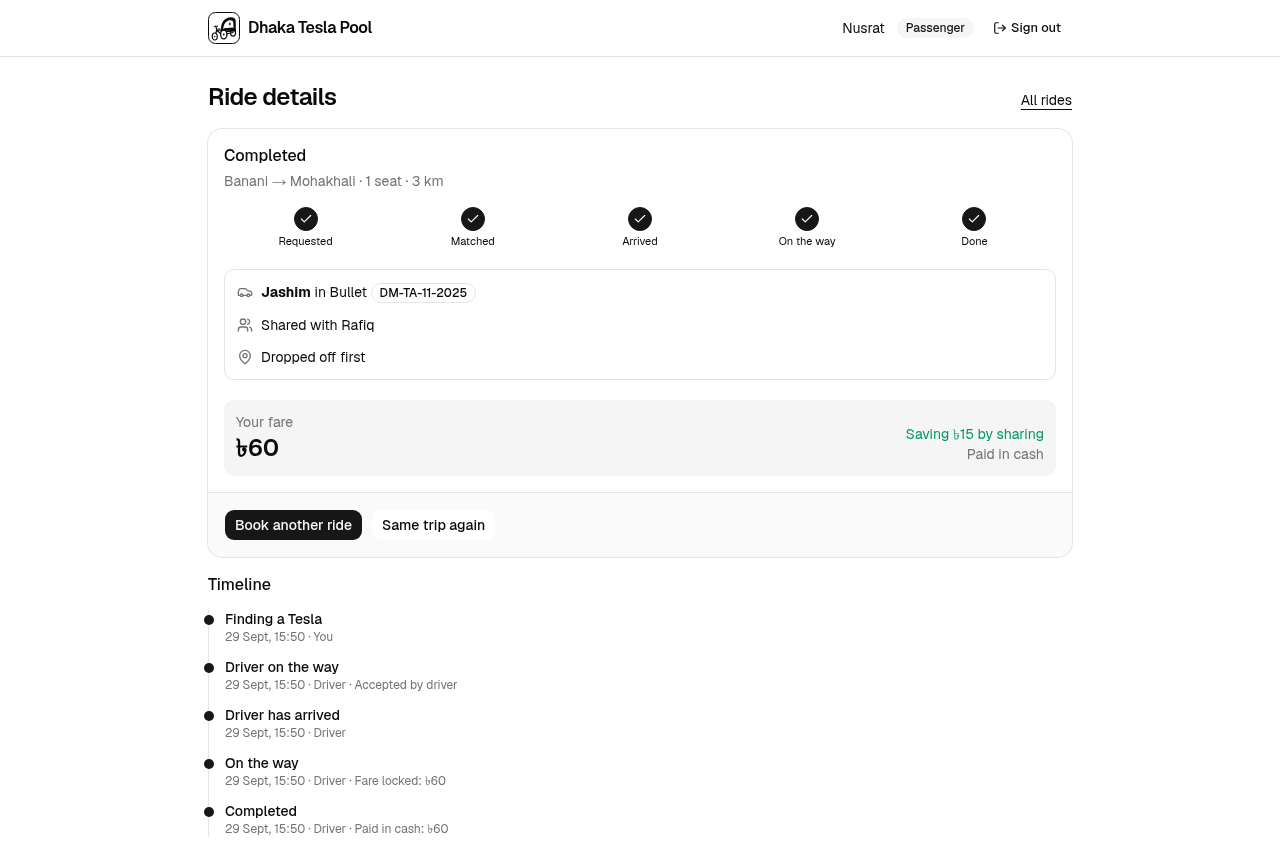
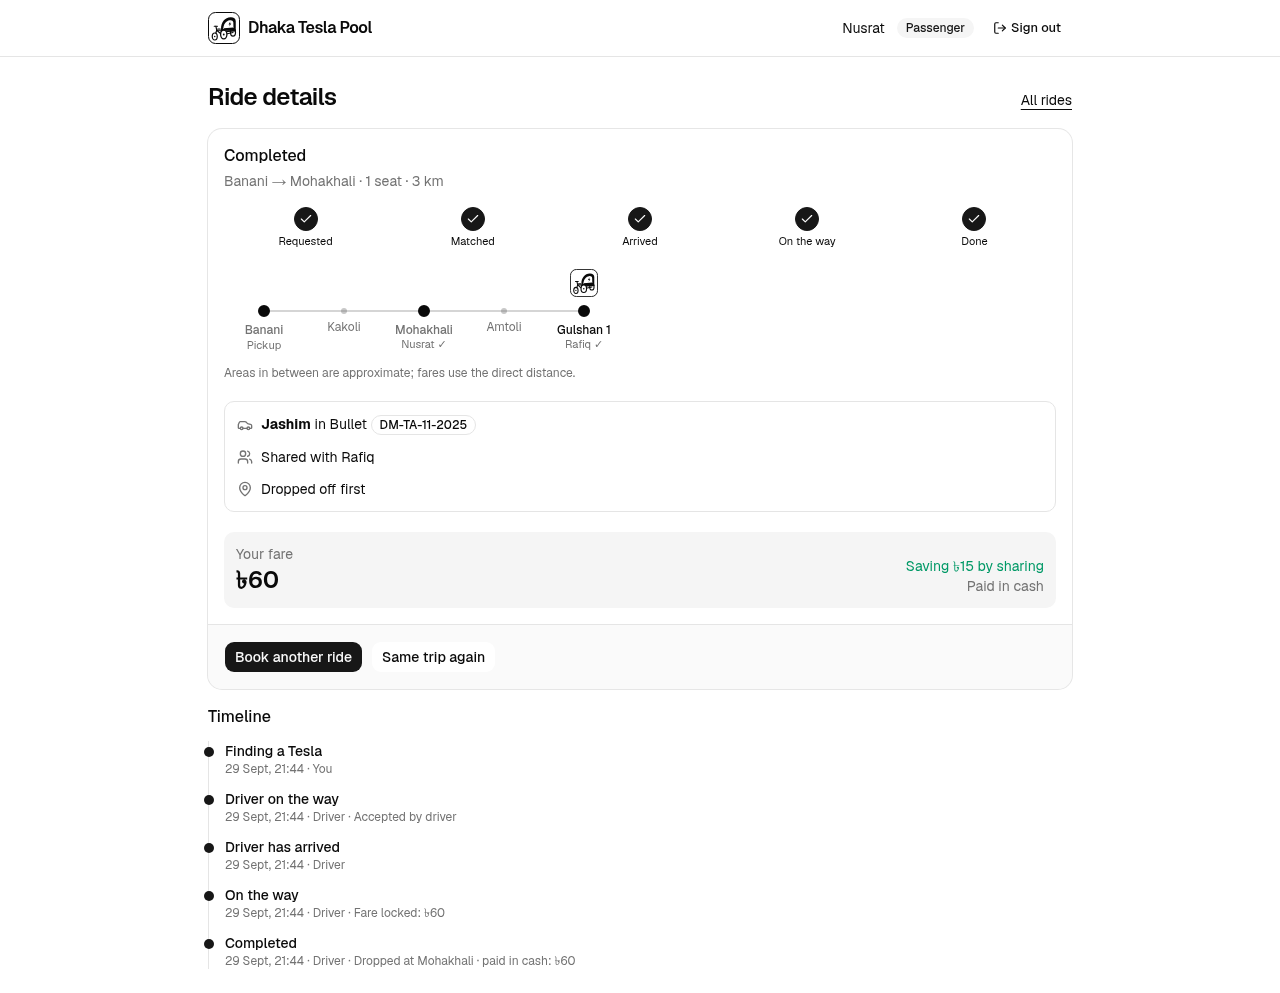
docs: document drop-offs and the trip line, refresh screenshots

diff --git a/README.md b/README.md
@@ -64,13 +64,15 @@ Every assumption made along the way is written down in [docs/assumptions.md](doc
 - Pick pickup and destination zones and seats (1–3), and see three prices before booking: alone, shared by two (20% off) and full Tesla (30% off).
 - New requests **automatically join** a compatible open pool (same pickup, seats free, detour ≤ 2 km).
 - Live ride page (polled every 3 s): progress steps, driver and plate, co-riders by first name, drop-off order, and the projected fare, which is locked when the trip starts.
+- **Seat boxes:** one box per seat in the Tesla, the same for everyone in the pool: filled when booked, empty when free, freed again when someone gets off.
+- **Trip line:** pickup, the areas passed on the way (e.g. Banani → Kakoli → Mohakhali) and every drop-off, with the Tesla drawn where it is now.
 - Cancel before the trip starts. History, ride details with a timeline, and "Same trip again".
 
 **Driver**
 - Go online/offline; see waiting requests only while online.
 - Accept a request (starts a pool) or add a fitting request to the open pool.
-- Arrive → start (fares lock) → complete (cash collected), or cancel before the start.
-- Current trip view with seats taken, drop-off order, each rider's fare and the total to collect. Trip history.
+- Arrive → start (fares lock) → **drop passengers off one by one** in drop-off order (each pays cash and their ride completes; the last drop-off ends the trip), or cancel before the start.
+- Current trip view with seat boxes, the trip line, each rider's fare, and cash collected so far. Trip history.
 
 **Platform**
 - Seat capacity enforced by a row lock **and** a database `CHECK` constraint.
@@ -85,11 +87,11 @@ Every assumption made along the way is written down in [docs/assumptions.md](doc
 |---|---|
 | ![Home page](docs/images/home.png) | ![Nusrat requesting Banani to Mohakhali](docs/images/passenger-request.png) |
 
-| Nusrat, pooled with Rafiq | Jashim's trip in progress (fares locked) |
+| Nusrat, pooled with Rafiq: seat boxes and trip line | Jashim has dropped Nusrat off; Rafiq is next |
 |---|---|
-| ![Nusrat's ride matched with Rafiq](docs/images/passenger-pooled.png) | ![Jashim's current trip: Nusrat ৳60, Rafiq ৳72, total ৳132](docs/images/driver-trip.png) |
+| ![Nusrat's ride matched with Rafiq](docs/images/passenger-pooled.png) | ![Jashim's trip after dropping Nusrat: ৳60 of ৳132 collected](docs/images/driver-trip.png) |
 
-| Driver sees a waiting request | Completed ride with timeline |
+| Driver sees a waiting request | Nusrat's completed ride with timeline |
 |---|---|
 | ![Jashim's waiting requests](docs/images/driver-requests.png) | ![Nusrat's completed ride](docs/images/passenger-completed.png) |
 
@@ -117,7 +119,7 @@ The story cast is seeded in every environment. The password is `tesla1234` for a
 > 2. **Nusrat** → Banani → Mohakhali, 1 seat → Request ride.
 > 3. **Jashim** → Accept Nusrat.
 > 4. **Rafiq** → Banani → Gulshan 1 → he joins Bullet automatically. Both now see the 20% shared fare (৳60 and ৳72).
-> 5. **Jashim** → I've arrived → Start trip (fares lock) → Complete trip (৳132 cash).
+> 5. **Jashim** → I've arrived → Start trip (fares lock) → **Drop off** Nusrat at Mohakhali (৳60) → **Drop off** Rafiq at Gulshan 1 (৳72). The trip ends with ৳132 cash.
 >
 > Add **Shirin** before the start to fill Bullet: everyone's discount rises to 30%.
 
@@ -185,7 +187,7 @@ erDiagram
 | `zones`, `zone_distances` | 14 Dhaka zones and a symmetric km table (no map API) |
 | `ride_requests` | A passenger's trip request, its status and the solo fare estimate |
 | `pools` | One shared trip: driver, vehicle, pickup zone, `occupied_seats ≤ capacity` |
-| `pool_members` | Who is in a pool, drop-off order, and the full locked fare breakdown |
+| `pool_members` | Who is in a pool, drop-off order, when they were dropped off, and the full locked fare breakdown |
 | `ride_status_history` | Every state change, who made it, and why |
 
 Money is stored as **integer paisa**, and percentages as basis points. Full column list, constraints, indexes and a worked example: [docs/erd.md](docs/erd.md).
@@ -348,14 +350,14 @@ cd ../frontend
 npm run lint && npm run typecheck && npm run build
 ```
 
-**62 unit and 55 e2e tests.** The e2e tests run through the real HTTP stack and database, and clean up after themselves. The behaviours the brief asks for:
+**67 unit and 58 e2e tests.** The e2e tests run through the real HTTP stack and database, and clean up after themselves. The behaviours the brief asks for:
 
 | Required behaviour | Where it's tested |
 |---|---|
 | Bullet's capacity can never be exceeded | `pooling.e2e-spec.ts`: never more than 3; the DB `CHECK` rejects a direct overbooking |
 | Two concurrent requests can't corrupt capacity | `pooling.e2e-spec.ts`: Nusrat vs Shirin for the last seat; 8 passengers × 1 seat × 5 rounds; driver-add vs passenger-join. `driver.e2e-spec.ts`: two drivers accepting one ride |
 | Nusrat's and Rafiq's pooled fares | `fare.calculator.spec.ts` (F1–F12), `fares.e2e-spec.ts`, `driver.e2e-spec.ts`: locks ৳60 and ৳72 at the start |
-| Invalid state transitions are rejected | `ride-state.spec.ts` (allowed and forbidden moves, final states), plus cancel after start and arrive/start out of order in the e2e tests |
+| Invalid state transitions are rejected | `ride-state.spec.ts` (allowed and forbidden moves, final states), plus cancel after start, arrive/start out of order, and drop-offs before the start or out of order in the e2e tests |
 | Users can't modify another user's ride | `rides.e2e-spec.ts`: another passenger gets 403 on view and cancel, and the ride is unchanged; role checks on passenger and driver routes |
 | Cancellation rules hold | `rides.e2e-spec.ts`: cancel frees the seat, empties the pool, refuses after the start; `driver.e2e-spec.ts`: driver cancel sends riders back to waiting |
 
@@ -378,7 +380,8 @@ REST, JSON, all under `/api`. Auth is the `token` httpOnly cookie. Interactive d
 | `GET` | `/driver/requests` | Driver | Waiting requests this driver can take |
 | `POST` | `/driver/requests/:id/accept` | Driver | Start a pool or add to the open one |
 | `GET` | `/driver/pool` · `/driver/pools` | Driver | Current trip, trip history |
-| `POST` | `/driver/pool/arrive` · `start` · `complete` · `cancel` | Driver | Move the trip along |
+| `POST` | `/driver/pool/arrive` · `start` · `cancel` | Driver | Move the trip along |
+| `POST` | `/driver/pool/drop-off/:rideId` · `complete` | Driver | Drop one passenger off (the last one ends the trip), or everyone left |
 | `GET` | `/health` | Public | API and database status |
 
 Every error looks the same: `{ "statusCode", "error", "message", "requestId" }`.
@@ -404,6 +407,7 @@ Every error looks the same: `{ "statusCode", "error", "message", "requestId" }`.
 - **No refresh tokens:** sessions last one day.
 - **Cash only:** no payment integration, ratings or driver location.
 - **Matching is zone-level and greedy:** one pickup zone per pool, drop-off order by distance.
+- **The trip line is an illustration:** the areas in between come from a small hand-drawn road map, and the Tesla moves stop by stop, not by GPS.
 
 ## Next improvements
 

diff --git a/docs/api.md b/docs/api.md
@@ -62,7 +62,8 @@
 | `GET` | `/api/driver/pool` | Driver | Current pool, with passengers and seats |
 | `POST` | `/api/driver/pool/arrive` | Driver | Mark arrived at pickup |
 | `POST` | `/api/driver/pool/start` | Driver | Start the trip, lock fares |
-| `POST` | `/api/driver/pool/complete` | Driver | Complete the trip |
+| `POST` | `/api/driver/pool/drop-off/:rideId` | Driver | Drop off one passenger; the last one completes the trip |
+| `POST` | `/api/driver/pool/complete` | Driver | Drop off everyone left and complete the trip |
 | `POST` | `/api/driver/pool/cancel` | Driver | Cancel the pool before start |
 | `GET` | `/api/driver/pools` | Driver | Trip history |
 | `GET` | `/api/health` | Public | Service and database health |
@@ -210,8 +211,24 @@ Returned by every ride endpoint. A passenger sees their own fare only; co-riders
     "driver": { "name": "Jashim" },
     "vehicle": { "name": "Bullet", "plateNumber": "DM-TA-11-2025" },
     "dropOffOrder": 1,
-    "coRiders": [ { "name": "Rafiq", "seats": 1 } ],
-    "seatsLeft": 1
+    "coRiders": [ { "name": "Rafiq", "seats": 1, "dropped": false } ],
+    "capacity": 3,
+    "seatsLeft": 1,
+    "seatMap": [
+      { "name": "Nusrat", "seats": 1, "you": true, "dropped": false },
+      { "name": "Rafiq", "seats": 1, "you": false, "dropped": false }
+    ]
+  },
+  "route": {
+    "points": [
+      { "name": "Banani", "kind": "PICKUP", "riders": [] },
+      { "name": "Kakoli", "kind": "VIA", "riders": [] },
+      { "name": "Mohakhali", "kind": "DROP_OFF", "riders": ["Nusrat"] },
+      { "name": "Amtoli", "kind": "VIA", "riders": [] },
+      { "name": "Gulshan 1", "kind": "DROP_OFF", "riders": ["Rafiq"] }
+    ],
+    "position": 0,
+    "moving": false
   },
   "createdAt": "2026-09-28T02:41:00Z"
 }
@@ -222,6 +239,8 @@ Returned by every ride endpoint. A passenger sees their own fare only; co-riders
 | `fare.currentPaisa` | What the passenger would pay if the trip started now; changes as the pool changes. |
 | `fare.finalPaisa` | Set when the trip starts; never changes afterwards. |
 | `pool` | `null` while `REQUESTED` or after cancellation. |
+| `pool.seatMap` | Everyone's seats in drop-off order, for the seat boxes; `dropped` seats are free again. |
+| `route` | The trip line: the pool's whole route, or just this ride's while it waits. `VIA` points are areas passed on the way (display only, [assumptions §3.3](assumptions.md#33-trip-line-display-only)). `position` is the point the Tesla is at, or has just left when `moving`. |
 
 ### `POST /api/rides` — *Passenger*
 
@@ -345,7 +364,8 @@ Returned by all `/api/driver/pool*` endpoints. The driver sees every member's fa
       "seats": 1,
       "dropOffOrder": 1,
       "farePaisa": 6000,
-      "fareLocked": false
+      "fareLocked": false,
+      "droppedAt": null
     },
     {
       "rideId": "r-2…",
@@ -355,10 +375,12 @@ Returned by all `/api/driver/pool*` endpoints. The driver sees every member's fa
       "seats": 1,
       "dropOffOrder": 2,
       "farePaisa": 7200,
-      "fareLocked": false
+      "fareLocked": false,
+      "droppedAt": null
     }
   ],
   "totalFarePaisa": 13200,
+  "route": { "points": [ "…same shape as in the ride object…" ], "position": 0, "moving": false },
   "createdAt": "2026-09-28T02:41:40Z",
   "arrivedAt": null,
   "startedAt": null,
@@ -376,7 +398,8 @@ Returned by all `/api/driver/pool*` endpoints. The driver sees every member's fa
 |---|---|---|---|
 | `POST /api/driver/pool/arrive` | `MATCHED → DRIVER_ARRIVED` | Pool stops accepting members | Pool not `MATCHED` |
 | `POST /api/driver/pool/start` | `DRIVER_ARRIVED → STARTED` | **Fares calculated and locked** | Pool not `DRIVER_ARRIVED`, or no members left |
-| `POST /api/driver/pool/complete` | `STARTED → COMPLETED` | Fares marked paid (cash); driver free | Pool not `STARTED` |
+| `POST /api/driver/pool/drop-off/:rideId` | That ride `STARTED → COMPLETED` | Fare marked paid (cash); the last drop-off completes the pool | Pool not `STARTED`, or someone must be dropped first (`404` if the ride isn't on board) |
+| `POST /api/driver/pool/complete` | `STARTED → COMPLETED` | Everyone still on board dropped off and paid; driver free | Pool not `STARTED` |
 | `POST /api/driver/pool/cancel` | `MATCHED`/`DRIVER_ARRIVED → CANCELLED` | Members return to `REQUESTED` | Pool already `STARTED` |
 
 `/cancel` takes an optional `{ "reason": "Vehicle breakdown" }`. Each action applies the same transition to every active member and records it in their timeline. **Response `200`** — the updated pool object. **`404`** if the driver has no active pool.
@@ -456,6 +479,7 @@ Nusrat and Rafiq share Bullet on the morning of the story.
 | 7 | Nusrat | `GET /api/rides/active` | Co-rider Rafiq; current fare ৳60 |
 | 8 | Jashim | `POST /api/driver/pool/arrive` | Both `DRIVER_ARRIVED` |
 | 9 | Jashim | `POST /api/driver/pool/start` | Both `STARTED`; fares locked at ৳60 and ৳72 |
-| 10 | Jashim | `POST /api/driver/pool/complete` | Both `COMPLETED`; ৳132 cash |
+| 10 | Jashim | `POST /api/driver/pool/drop-off/{nusrat}` | Nusrat `COMPLETED`, paid ৳60; Rafiq still `STARTED` |
+| 11 | Jashim | `POST /api/driver/pool/drop-off/{rafiq}` | Rafiq `COMPLETED`, paid ৳72; trip `COMPLETED`, ৳132 cash |
 
 **Variation — the last seat:** after step 6, Bullet has one seat left. If Shirin and a fourth passenger both send `POST /api/rides` for a compatible trip at the same moment, exactly one joins the pool; the other receives `201` with status `REQUESTED` and waits for another driver.

diff --git a/docs/assumptions.md b/docs/assumptions.md
@@ -99,6 +99,17 @@ Approximate road distances, rounded to whole kilometres and stored in the seed d
 | **Symmetric** (A → B = B → A) | Direction never changes the price. |
 | **Triangle inequality** (A → C ≤ A → B + B → C) | A detour can never be negative. Verified for all 2,184 zone triples. |
 
+### 3.3 Trip Line (Display Only)
+
+Passengers and the driver see the trip as one line: the pickup, the areas passed on the way, and each drop-off, with the Tesla drawn where it is now.
+
+| Rule | Detail |
+|---|---|
+| **Road map** | A small hand-drawn map of the 14 zones plus 13 well-known areas between them (Airport, Khilkhet, Kuril, Kakoli, Nadda, Amtoli, ECB Chattar, Kalshi, Diabari, Kochukhet, Agargaon, Shyamoli, Panthapath), joined by the main roads with approximate lengths. |
+| **Path** | The shortest path on that map between consecutive stops. For example, Banani → Mohakhali passes Kakoli. |
+| **Tesla position** | At the pickup until the trip starts; moving towards the next stop while `STARTED`; at a drop-off once that passenger is dropped; at the last stop when the trip completes. There is no GPS. |
+| **Not used for fares** | Fares and matching use only the distance table (§3.2). The areas in between are an illustration, and the screen says so. |
+
 ---
 
 ## 4. Matching Rules
@@ -175,7 +186,7 @@ stateDiagram-v2
     REQUESTED --> MATCHED: joins pool / driver accepts
     MATCHED --> DRIVER_ARRIVED: driver arrives
     DRIVER_ARRIVED --> STARTED: driver starts (fares locked)
-    STARTED --> COMPLETED: driver completes
+    STARTED --> COMPLETED: driver drops the passenger off
     REQUESTED --> CANCELLED: passenger cancels
     MATCHED --> CANCELLED: passenger cancels
     DRIVER_ARRIVED --> CANCELLED: passenger cancels
@@ -192,7 +203,7 @@ stateDiagram-v2
 | `REQUESTED` | `MATCHED` | System / Driver | Joins an open pool, or a driver accepts it |
 | `MATCHED` | `DRIVER_ARRIVED` | Driver | Pool belongs to this driver |
 | `DRIVER_ARRIVED` | `STARTED` | Driver | Pool has ≥ 1 active member; **fares are locked** |
-| `STARTED` | `COMPLETED` | Driver | — |
+| `STARTED` | `COMPLETED` | Driver | The driver drops this passenger off (§5.5); the pool completes when the last one is dropped |
 | `REQUESTED`, `MATCHED`, `DRIVER_ARRIVED` | `CANCELLED` | Passenger | Ride belongs to this passenger |
 | `MATCHED`, `DRIVER_ARRIVED` | `REQUESTED` | Driver | Driver cancels the pool before start |
 
@@ -205,6 +216,17 @@ The brief suggests `MATCHED/ACCEPTED` as a single step. This design keeps one st
 ### 5.4 Audit Trail
 
 Every transition is recorded in a status history table with the ride, previous status, new status, actor, reason and timestamp. Any past ride can be reconstructed from it.
+
+### 5.5 Drop-offs
+
+During the trip the driver drops passengers off one at a time.
+
+| Rule | Detail |
+|---|---|
+| **Order** | In the planned drop-off order (§4.2). Riders getting off in the same zone may be dropped in either order. Anyone else is refused with `409` ("Drop off Nusrat at Mohakhali first"). |
+| **Effect** | The passenger's ride becomes `COMPLETED`, their locked fare is recorded as paid in cash, and their seat shows as free. Everyone else stays `STARTED`. |
+| **End of trip** | The last drop-off completes the pool. "Complete trip" is still available and drops off everyone left. |
+| **Guards** | Only while the pool is `STARTED`, only by its driver, and each passenger once. The database refuses a drop-off for someone who left the pool or whose fare was never locked. |
 
 ---
 
@@ -319,3 +341,5 @@ The seed data, tests and demo use the cast from the brief throughout.
 | A-15 | Payment is cash only. | [7](#7-fare--payment) |
 | A-16 | One role per account; one vehicle per driver. | [8](#8-users-vehicles--access) |
 | A-17 | Live status via polling, not WebSockets. | [9](#9-technical-assumptions) |
+| A-18 | The trip line's areas in between come from a small hand-drawn road map and are for display only. | [3.3](#33-trip-line-display-only) |
+| A-19 | Passengers are dropped off one at a time in drop-off order; each one's ride completes and is paid when they get off. | [5.5](#55-drop-offs) |

diff --git a/docs/erd.md b/docs/erd.md
@@ -142,6 +142,7 @@ erDiagram
         timestamptz paid_at
         timestamptz joined_at
         timestamptz left_at
+        timestamptz dropped_at
     }
 
     ride_status_history {
@@ -310,14 +311,17 @@ A ride request's seat in a pool. Holds the drop-off order and the full fare brea
 | `final_fare_paisa` | `integer` | ✓ | | What the passenger pays |
 | `fare_locked_at` | `timestamptz` | ✓ | | Equals the pool's `started_at` |
 | `payment_method` | `payment_method` | | `CASH` | |
-| `paid_at` | `timestamptz` | ✓ | | Set on `COMPLETED` |
+| `paid_at` | `timestamptz` | ✓ | | Set when the passenger is dropped off (their ride is `COMPLETED`) |
 | `joined_at` | `timestamptz` | | `now()` | |
 | `left_at` | `timestamptz` | ✓ | | Set if the passenger cancels or the driver cancels the pool |
+| `dropped_at` | `timestamptz` | ✓ | | Set when the driver drops this passenger off during the trip |
 
 **Constraints:**
 - `CHECK (seats BETWEEN 1 AND 3)` · `CHECK (drop_off_order >= 1)`
 - All fare columns `>= 0` · `CHECK (pool_discount_bps BETWEEN 0 AND 10000)` · `CHECK (final_fare_paisa <= subtotal_paisa)`
 - `CHECK ((final_fare_paisa IS NULL) = (fare_locked_at IS NULL))` — a fare is either fully locked or not at all
+- `CHECK (dropped_at IS NULL OR left_at IS NULL)` — someone who left the pool can't be dropped off
+- `CHECK (dropped_at IS NULL OR fare_locked_at IS NOT NULL)` — drop-offs happen only after the fare is locked at the start
 - A request is an active member of at most one pool (see [§6](#6-integrity-rules))
 
 A request can appear in more than one row over its lifetime: if a driver cancels a pool, the member row gets `left_at`, the request returns to `REQUESTED`, and it may later join another pool.
